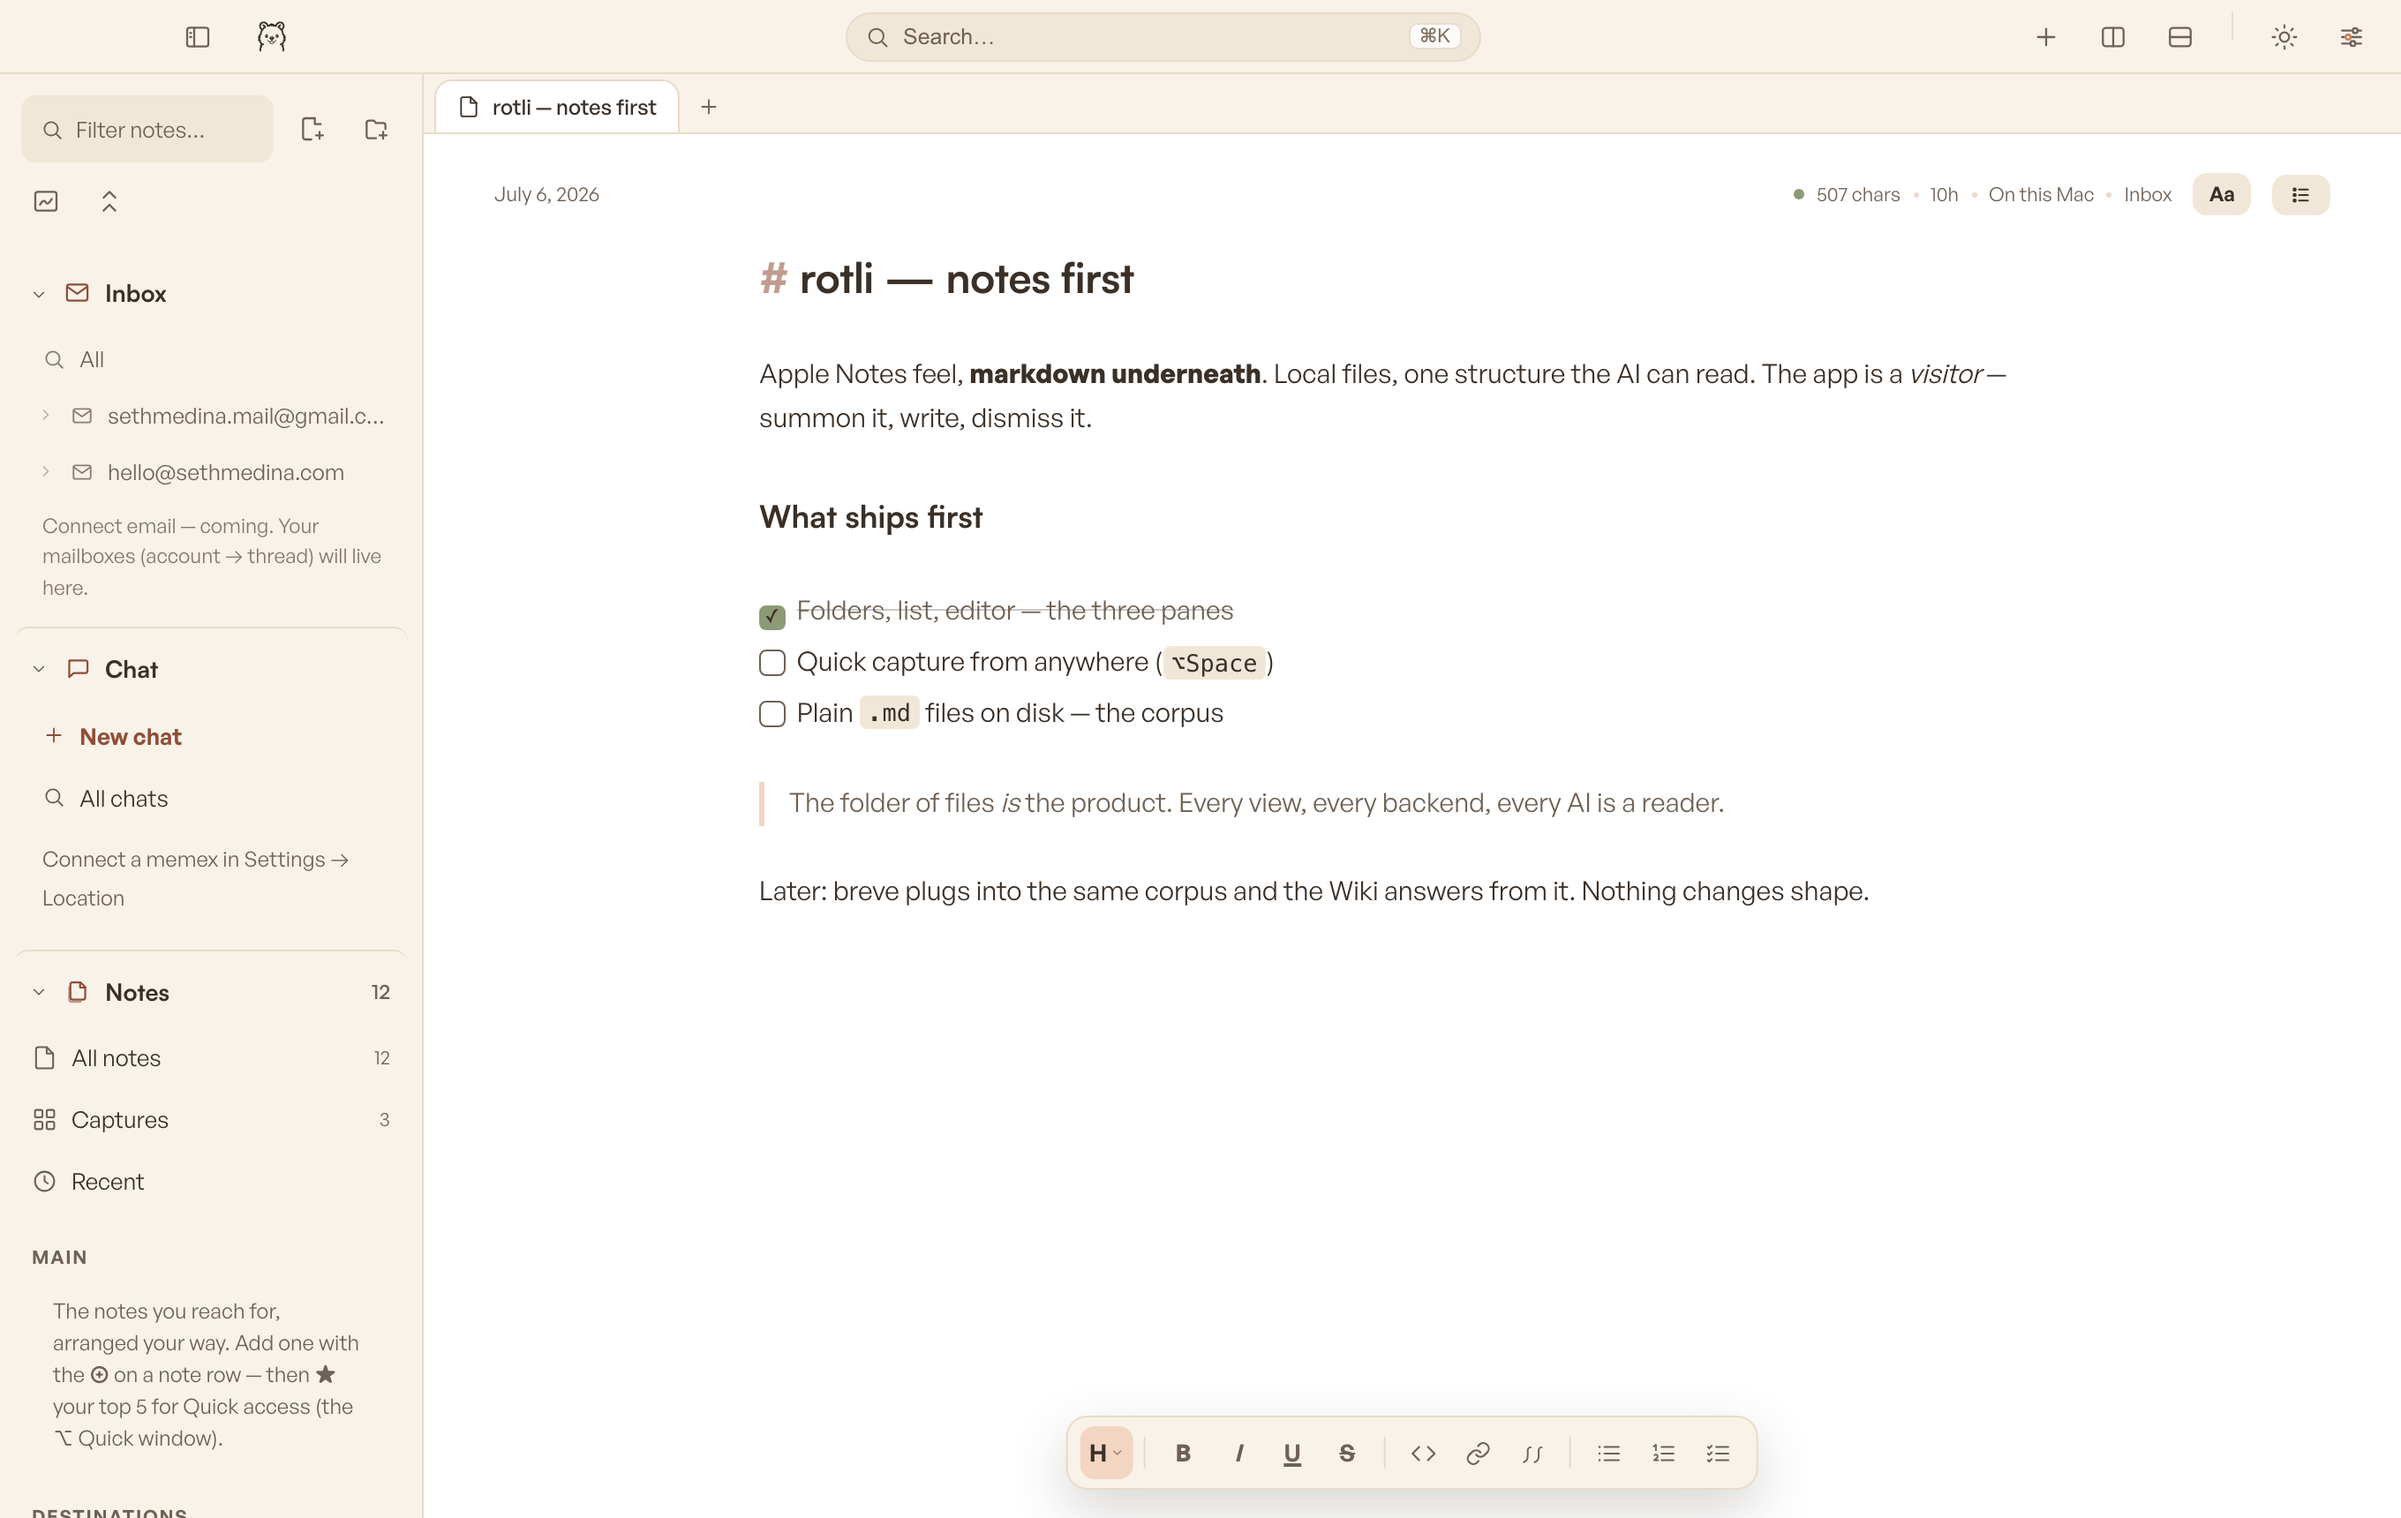
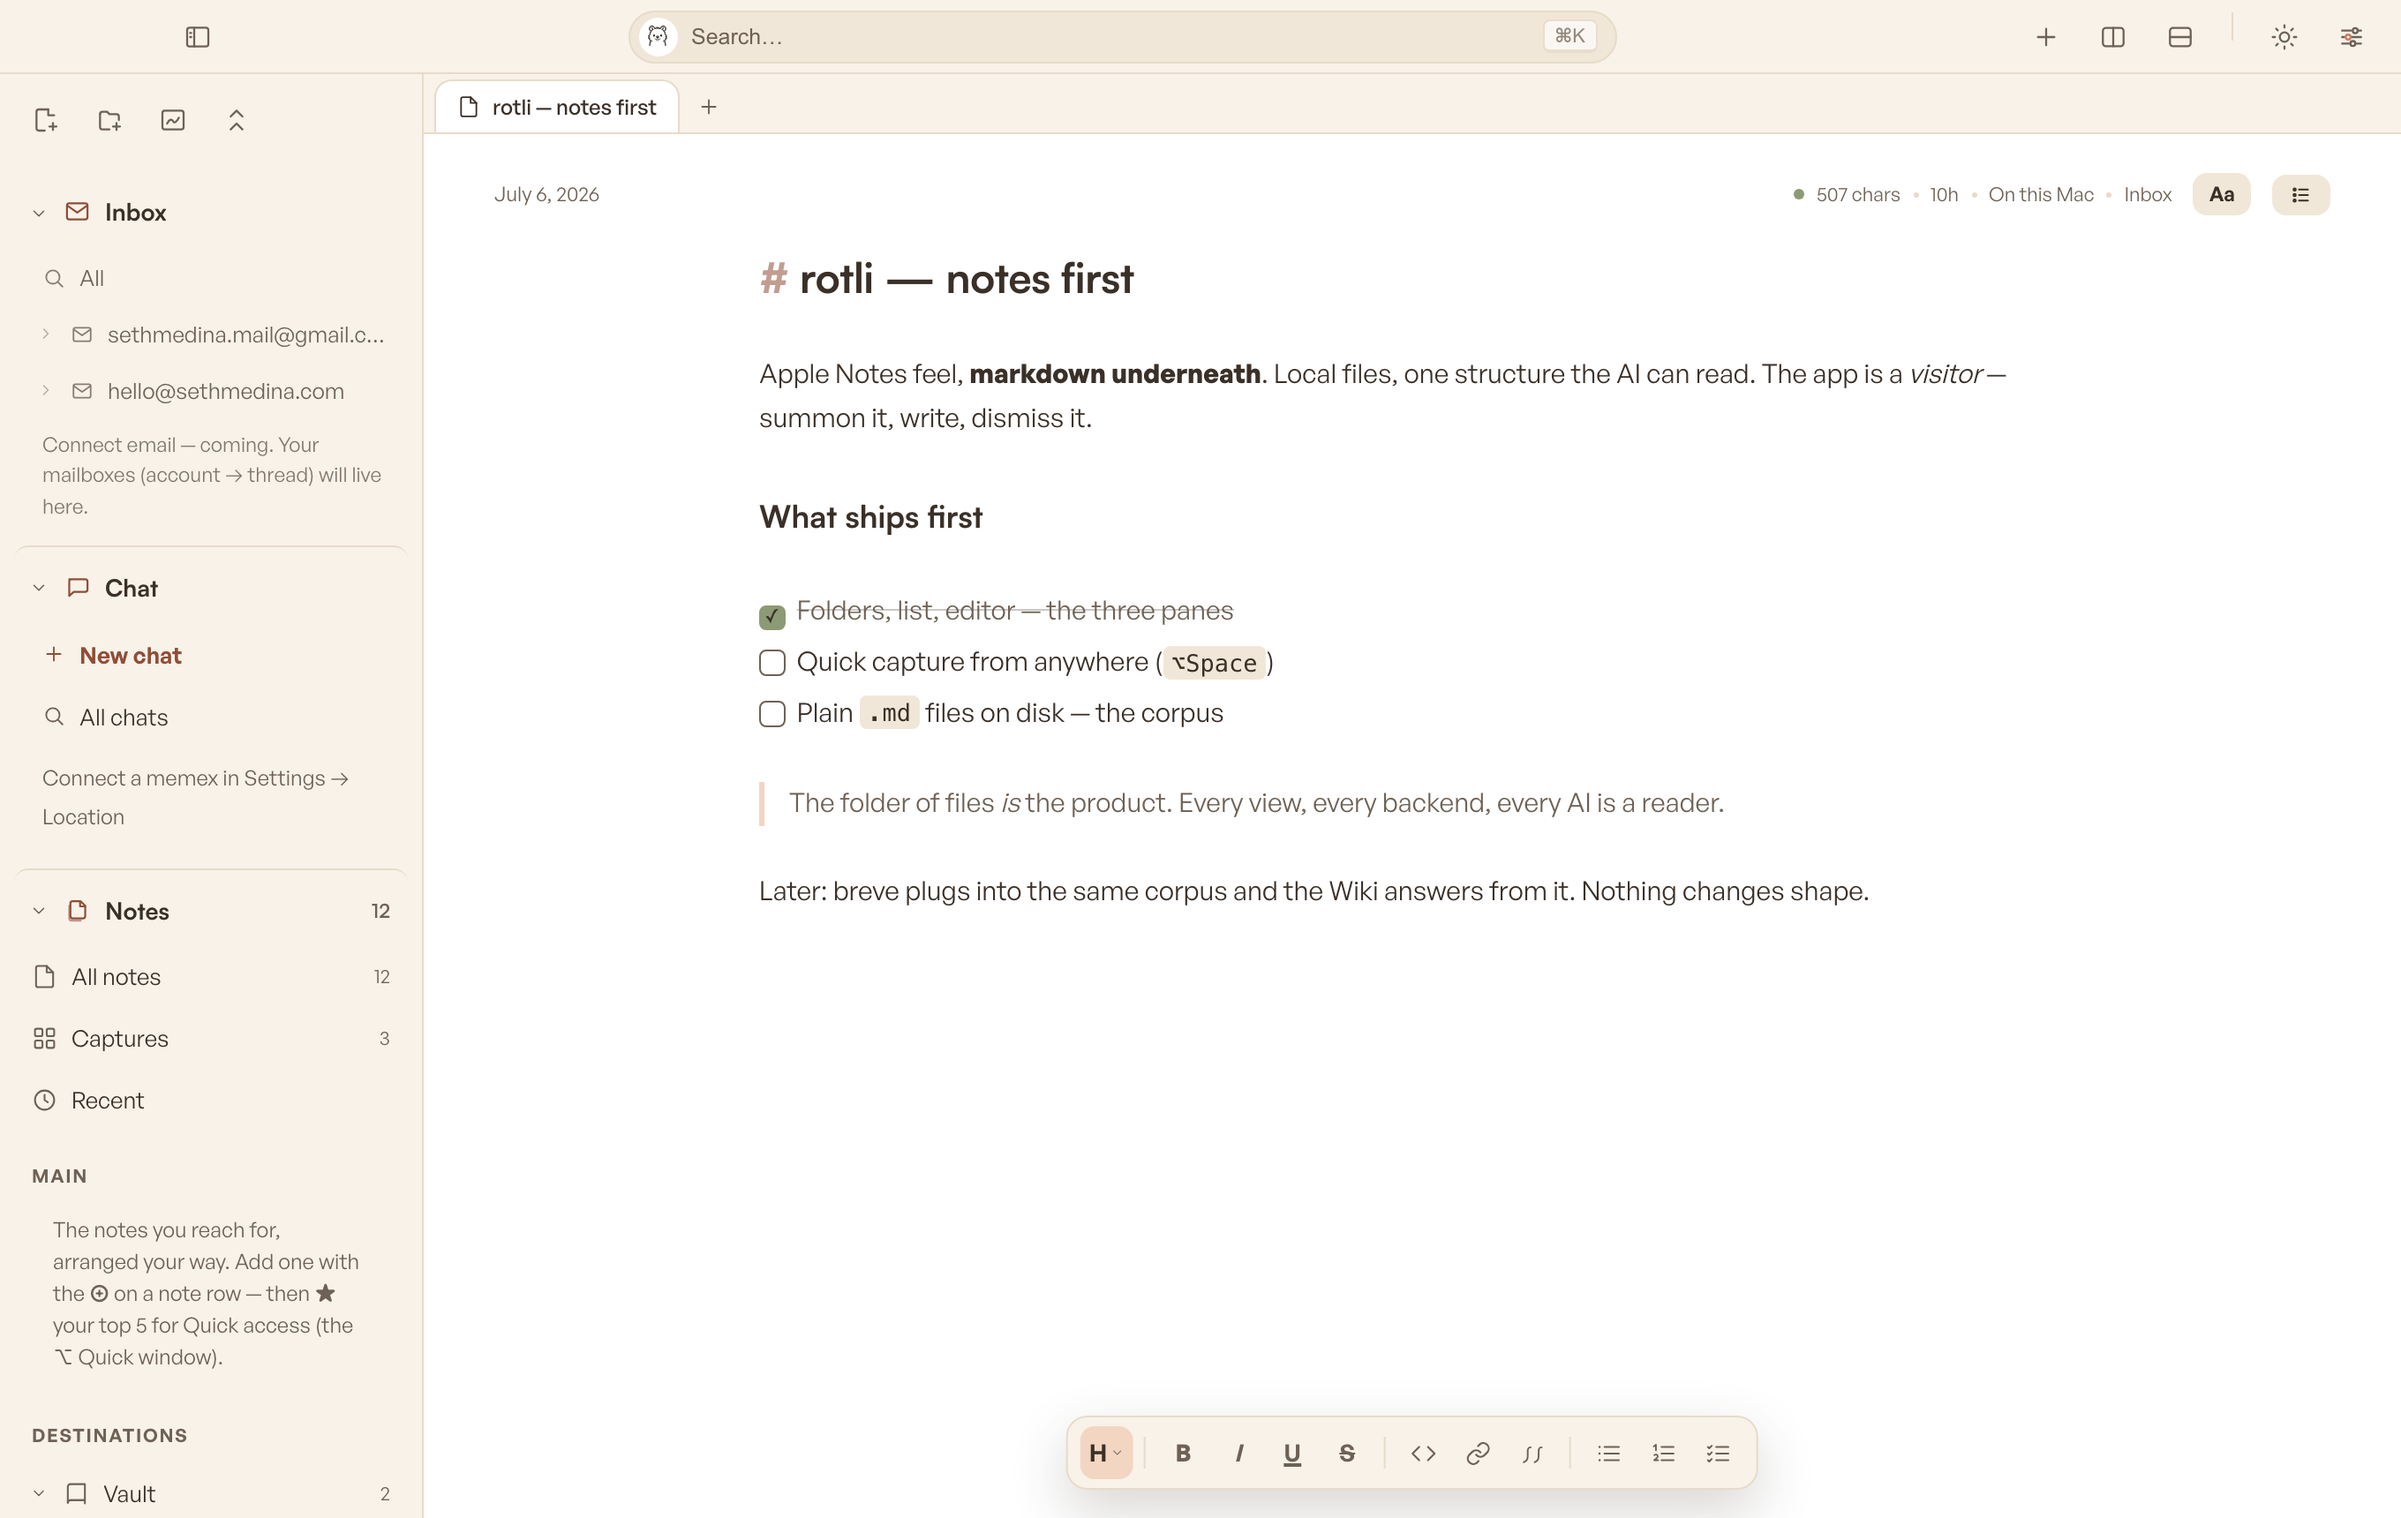
app + site: titlebar search rework, charcoal palette, glass coming-soon, dark preview
App
- Titlebar: wider search field; the rotli mark moved off the far left INTO the
  field as a circular badge (replacing the search glyph); ⌘K hint is now subtle
  (no card); sidebar "/" opens the global search
- Removed the sidebar "Filter notes…" input (global search covers it)
- ⌘K palette no longer reads warm-brown in charcoal — the scrim is a theme token
  (warm by default, neutral in the mono themes); palette border/shadow neutralized
- Liquid Glass marked "Coming soon": section shown, options previewed dimmed,
  toggle disabled; a stuck glass mode is cleared on the Appearance pane

Site
- Hero screenshot follows the theme — a real dark-mode capture swaps in when dark
- Top bar is locked (sticky) with a hairline once the page scrolls under it
- Favicon is a circle (was a rounded square); refreshed to the new titlebar

diff --git a/src/components/Sidebar.tsx b/src/components/Sidebar.tsx
@@ -594,8 +594,9 @@ export function Sidebar() {
   const rowActionError = useUiStore((s) => s.rowActionError);
   const setRowActionError = useUiStore((s) => s.setRowActionError);
   const sidebarZoom = useUiStore((s) => s.sidebarZoom);
-  const [filter, setFilter] = useState("");
-  const filterRef = useRef<HTMLInputElement>(null);
+  // the sidebar's live filter is retired (Seth, 2026-07-07) — the global titlebar
+  // search covers it; `filter` stays empty so `matches()` passes every row.
+  const filter = "";
 
   // — inline nested new-folder row: when set, an <input> renders under this
   // parent id; null = not creating. Enter (or clicking away) commits a non-empty
@@ -1176,7 +1177,7 @@ export function Sidebar() {
       ]
     : [];
 
-  const { rowProps, focusActive } = useRovingList(rows, {
+  const { rowProps } = useRovingList(rows, {
     // l / Enter: a note opens in place; a folder/dest toggles its expansion and
     // becomes the ⌘N selection — mirrors the click gesture exactly.
     onOpen: (row, newTab) => {
@@ -1223,7 +1224,7 @@ export function Sidebar() {
       }
       return false;
     },
-    onFocusFilter: () => filterRef.current?.focus(),
+    onFocusFilter: () => dispatch("palette.toggle"),
     // m: a note/board/file row opens the SAME context menu the right-click
     // uses, anchored under the row; on close the cursor returns to the row
     // (the RowMenu unification, 2026-07-01). A Main row maps to its note.
@@ -1242,16 +1243,6 @@ export function Sidebar() {
       });
     },
   });
-
-  // Esc in the filter input returns focus to the active row (so the cursor is
-  // never stranded in the field) — its own local handler, not the global rule.
-  const onFilterKeyDown = (event: KeyboardEvent<HTMLInputElement>) => {
-    if (event.key === "Escape") {
-      event.preventDefault();
-      event.stopPropagation();
-      focusActive();
-    }
-  };
 
   // #25 — reveal the current file: when the focused note changes, auto-expand the
   // folder that holds it so its row is on screen (and highlighted). Main's copy
@@ -1535,18 +1526,6 @@ export function Sidebar() {
       {/* the sidebar toggle now lives in the titlebar (always visible, the clear
           reopen) — the search row is just the filter + new-note (Seth, 2026-06-15) */}
       <div className="nl-top">
-        <div className="filter">
-          <SearchGlyph size={13} />
-          <input
-            ref={filterRef}
-            type="text"
-            placeholder="Filter notes…"
-            value={filter}
-            onChange={(e) => setFilter(e.target.value)}
-            onKeyDown={onFilterKeyDown}
-            aria-label="Filter notes"
-          />
-        </div>
         {/* IDE-style create icons (Seth #7/#13, 2026-07-03): the old "+" dropdown
             became three explicit, always-visible actions — New note · New folder ·
             New board — mirroring VS Code's file-explorer title bar. Each targets

diff --git a/src/components/Titlebar.tsx b/src/components/Titlebar.tsx
@@ -18,7 +18,6 @@ import { IconButton } from "./IconButton";
 import { QuokkaMark } from "./Character";
 import {
   PlusGlyph,
-  SearchGlyph,
   SidebarGlyph,
   SplitDownGlyph,
   SplitRightGlyph,
@@ -72,7 +71,7 @@ export function Titlebar() {
           <SidebarGlyph size={TB_ICON} />
         </IconButton>
       )}
-      {settingsOpen ? (
+      {settingsOpen && (
         // settings surface (r1 frame F): the identity reads Settings; the rail
         // toggles step aside — clicking the identity walks back to notes
         <div className="identity-wrap">
@@ -81,24 +80,10 @@ export function Titlebar() {
             Settings
           </button>
         </div>
-      ) : (
-        // the module dropdown is retired (Seth, 2026-06-26): the left menu's three
-        // sections (Inbox · Chat · Notes) ARE the navigation now. The identity is a
-        // plain home mark, LEFT-aligned beside the sidebar toggle (Seth, 2026-07-06:
-        // logo + search live together at the top) — click returns to the note panes.
-        <div className="identity-wrap">
-          <button
-            type="button"
-            className="identity home"
-            aria-label="rotli — go to notes"
-            onClick={() => dispatch("modules.notes")}
-          >
-            <QuokkaMark size={22} className="identity-mark" />
-          </button>
-        </div>
       )}
-      {/* global search (Seth, 2026-07-06): a top search field beside the logo —
-          opens the ⌘K command palette (search every note + every action). The
+      {/* global search (Seth, 2026-07-06): the wide top search field. The rotli
+          mark moved OFF the far left and INTO the field as a circular badge in
+          place of the search glyph (Seth, 2026-07-07). Opens the ⌘K palette. The
           surrounding strip stays a window-drag region; the button stops its own
           mousedown so a click never starts a drag. */}
       <div
@@ -114,7 +99,9 @@ export function Titlebar() {
             onMouseDown={(event) => event.stopPropagation()}
             onClick={() => dispatch("palette.toggle")}
           >
-            <SearchGlyph size={14} />
+            <span className="tb-search-mark" aria-hidden="true">
+              <QuokkaMark size={15} />
+            </span>
             <span className="tb-search-label">Search…</span>
             <kbd className="tb-search-kbd">⌘K</kbd>
           </button>

diff --git a/src/components/SettingsSurface.tsx b/src/components/SettingsSurface.tsx
@@ -147,19 +147,23 @@ function Toggle({
   onChange,
   title,
   desc,
+  disabled,
 }: {
   on: boolean;
   onChange: () => void;
   title: string;
   desc?: string;
+  disabled?: boolean;
 }) {
   return (
     <button
       type="button"
       role="switch"
       aria-checked={on}
-      className={on ? "swrow on" : "swrow"}
-      onClick={onChange}
+      aria-disabled={disabled}
+      disabled={disabled}
+      className={`${on ? "swrow on" : "swrow"}${disabled ? " disabled" : ""}`}
+      onClick={disabled ? undefined : onChange}
     >
       <span className="swtext">
         <span className="swt">{title}</span>
@@ -629,6 +633,12 @@ function AppearancePane() {
   const glassBlur = useUiStore((s) => s.glassBlur);
   const setGlassBlur = useUiStore((s) => s.setGlassBlur);
   const followingSystem = theme === "system";
+  // Glass is shelved as "coming soon" — if it was enabled before, don't leave the
+  // app stuck in glass now that the toggle is disabled (Seth, 2026-07-07).
+  useEffect(() => {
+    if (glassMode) setGlassMode(false);
+    // eslint-disable-next-line react-hooks/exhaustive-deps
+  }, []);
   return (
     <>
       <PaneHead title="Appearance" char="board" />
@@ -696,13 +706,15 @@ function AppearancePane() {
           </div>
         ))}
 
-      <h4 className="sethead">Liquid Glass</h4>
+      <h4 className="sethead">
+        Liquid Glass <span className="soon-inline">Coming soon</span>
+      </h4>
       <p className="lead">
-        A mode over your theme: floating glass panels on a background. While it&rsquo;s on, the
-        titlebar sun becomes the tint dot — click it to cycle hues.
+        A mode over your theme: floating glass panels on a background, with the titlebar sun becoming
+        a tint dot. It&rsquo;s on the way — here&rsquo;s a preview of what&rsquo;s coming.
       </p>
-      <Toggle on={glassMode} title="Glass mode" onChange={() => setGlassMode(!glassMode)} />
-      <div className={glassMode ? "glassopts" : "glassopts off"} aria-hidden={!glassMode}>
+      <Toggle on={false} disabled title="Glass mode" onChange={() => {}} />
+      <div className="glassopts off" aria-hidden="true">
         <>
           <div className="glassrows">
             <div className="glassrow">

diff --git a/src/styles/command.css b/src/styles/command.css
@@ -9,7 +9,7 @@
   position: fixed;
   inset: 0;
   z-index: 20;
-  background: rgba(58, 48, 40, 0.38); /* the gate's dim, = cocoa @ 38% */
+  background: var(--scrim); /* theme dim — warm by default, neutral in the mono themes */
   backdrop-filter: blur(7px);
   -webkit-backdrop-filter: blur(7px);
   display: flex;
@@ -28,9 +28,9 @@
   max-width: calc(100vw - 48px);
   background: var(--surface);
   border-radius: var(--r-card);
-  box-shadow: 0 30px 80px -16px rgba(36, 29, 24, 0.55);
+  box-shadow: 0 30px 80px -16px rgba(0, 0, 0, 0.45);
   overflow: hidden;
-  border: 1px solid rgba(58, 48, 40, 0.1);
+  border: 1px solid var(--border);
   display: flex;
   flex-direction: column;
 }
@@ -1123,6 +1123,24 @@
 }
 .swrow:hover {
   background: color-mix(in srgb, var(--surface-2) 90%, var(--text));
+}
+.swrow:disabled {
+  opacity: 0.5;
+  cursor: default;
+}
+/* an inline "Coming soon" pill for a section heading (Seth, 2026-07-07) */
+.soon-inline {
+  font-size: 10px;
+  font-weight: 600;
+  text-transform: uppercase;
+  letter-spacing: 0.06em;
+  color: var(--text-muted);
+  background: var(--surface-2);
+  border: 1px solid var(--border);
+  border-radius: var(--r-pill);
+  padding: 2px 8px;
+  margin-left: 8px;
+  vertical-align: middle;
 }
 .swtext {
   flex: 1;

diff --git a/src/styles/app.css b/src/styles/app.css
@@ -137,9 +137,9 @@
   align-items: center;
   gap: 8px;
   width: 100%;
-  max-width: 360px;
-  height: 28px;
-  padding: 0 10px;
+  max-width: 560px;
+  height: 30px;
+  padding: 0 10px 0 5px;
   border: 1px solid var(--border);
   background: var(--surface-2);
   border-radius: var(--r-pill);
@@ -154,8 +154,19 @@
   background: var(--surface);
   color: var(--text);
 }
-.tb-search > svg {
+/* the rotli mark, in a circle, where the search glyph used to sit */
+.tb-search-mark {
   flex: 0 0 auto;
+  width: 22px;
+  height: 22px;
+  border-radius: 50%;
+  display: grid;
+  place-items: center;
+  background: var(--surface);
+  color: var(--text);
+}
+.tb-search:hover .tb-search-mark {
+  background: var(--surface-2);
 }
 .tb-search-label {
   flex: 1 1 auto;
@@ -165,15 +176,13 @@
   overflow: hidden;
   text-overflow: ellipsis;
 }
+/* the ⌘K hint — quiet inline text, no card (Seth, 2026-07-07) */
 .tb-search-kbd {
   flex: 0 0 auto;
   font-family: inherit;
   font-size: 11px;
   color: var(--text-muted);
-  border: 1px solid var(--border);
-  border-radius: 5px;
-  padding: 1px 5px;
-  opacity: 0.85;
+  opacity: 0.7;
 }
 .tb-actions {
   display: flex;

diff --git a/src/styles/base.css b/src/styles/base.css
@@ -14,6 +14,9 @@
      Never a new color, never a shape change. */
   --hov: rgba(58, 48, 40, 0.07);
   --act: rgba(58, 48, 40, 0.11);
+  /* the dim behind the ⌘K palette — warm by default; the mono themes override it
+     to a neutral scrim so charcoal doesn't read warm-brown (Seth, 2026-07-06). */
+  --scrim: rgba(58, 48, 40, 0.4);
 
   /* — radius scale, one family (r3 gate) —
      4 inner elements · 8 controls/rows · 10 tabs/bubbles · 12 cards/panels ·

diff --git a/src/styles/themes.css b/src/styles/themes.css
@@ -38,6 +38,7 @@
   --success: #6b6b68;
   --hov: rgba(22, 22, 22, 0.07);
   --act: rgba(22, 22, 22, 0.11);
+  --scrim: rgba(22, 22, 22, 0.42);
 }
 
 /* — MONO · charcoal (dark) — breve theme values, verbatim where possible — */
@@ -55,6 +56,7 @@
   --success: #a8a49c;
   --hov: rgba(233, 231, 226, 0.08);
   --act: rgba(233, 231, 226, 0.13);
+  --scrim: rgba(0, 0, 0, 0.5);
 }
 
 /* In the mono and glass families the kit icons drop their clay/olive accents to
